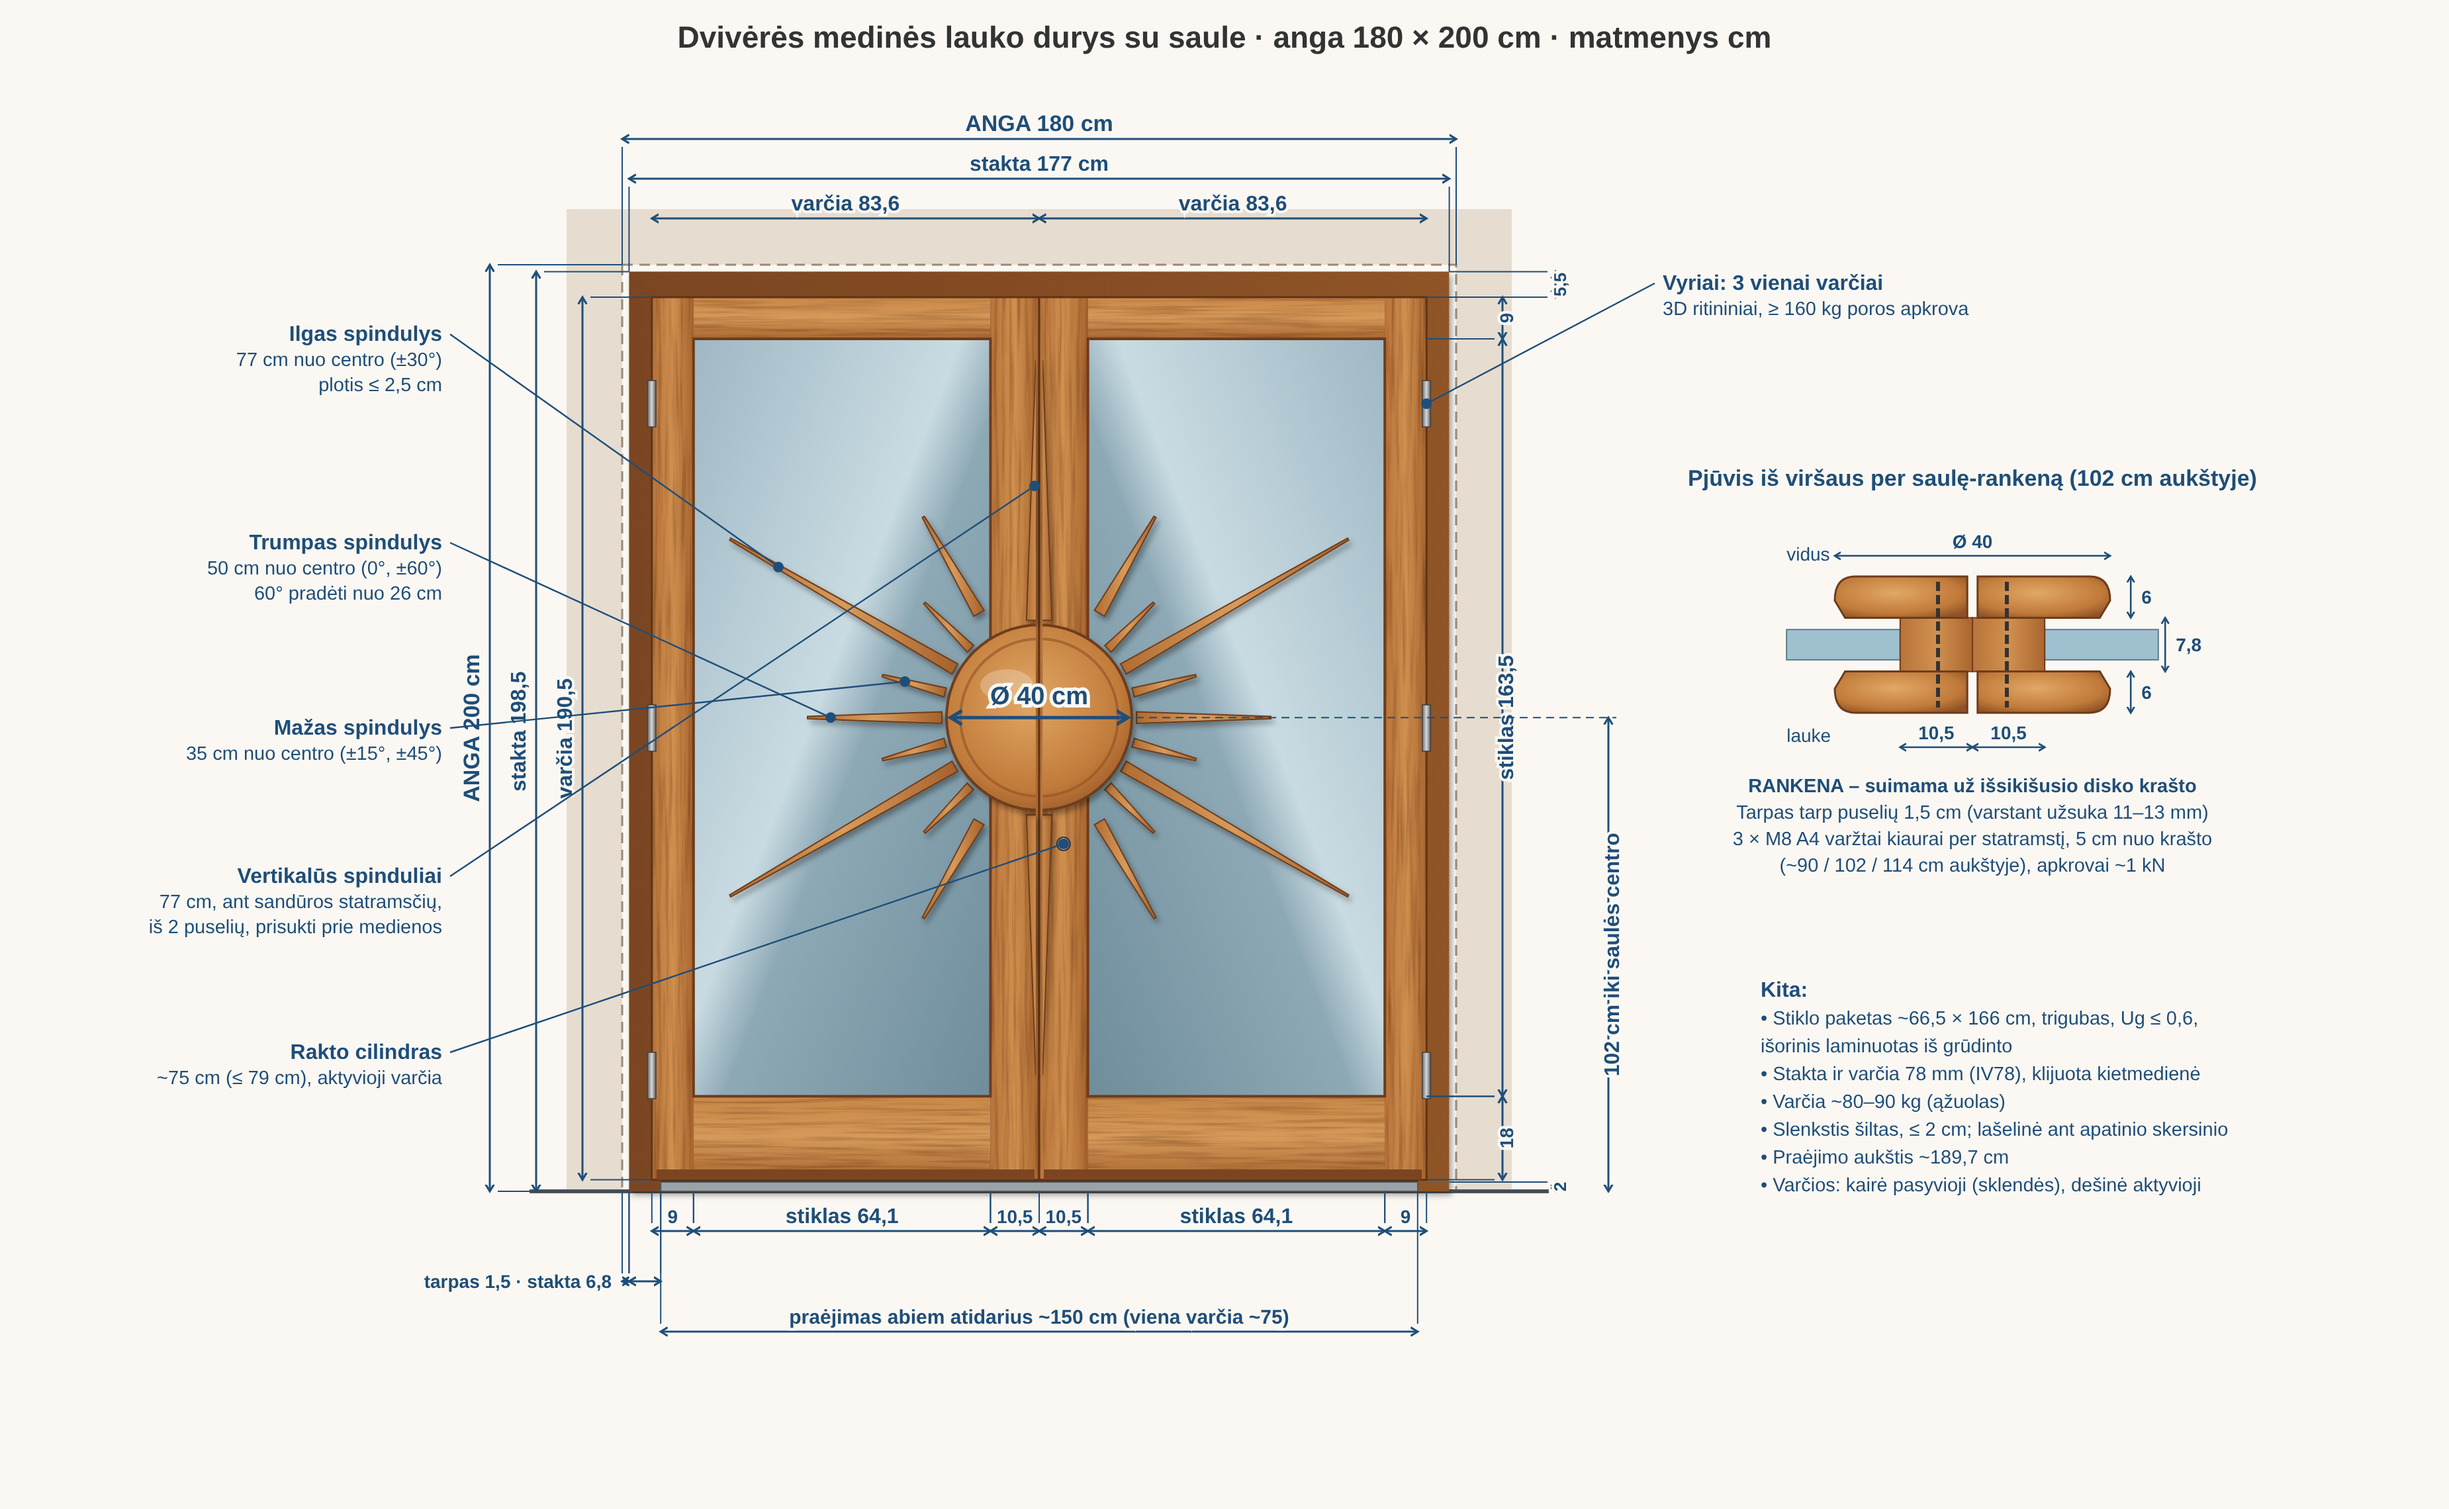
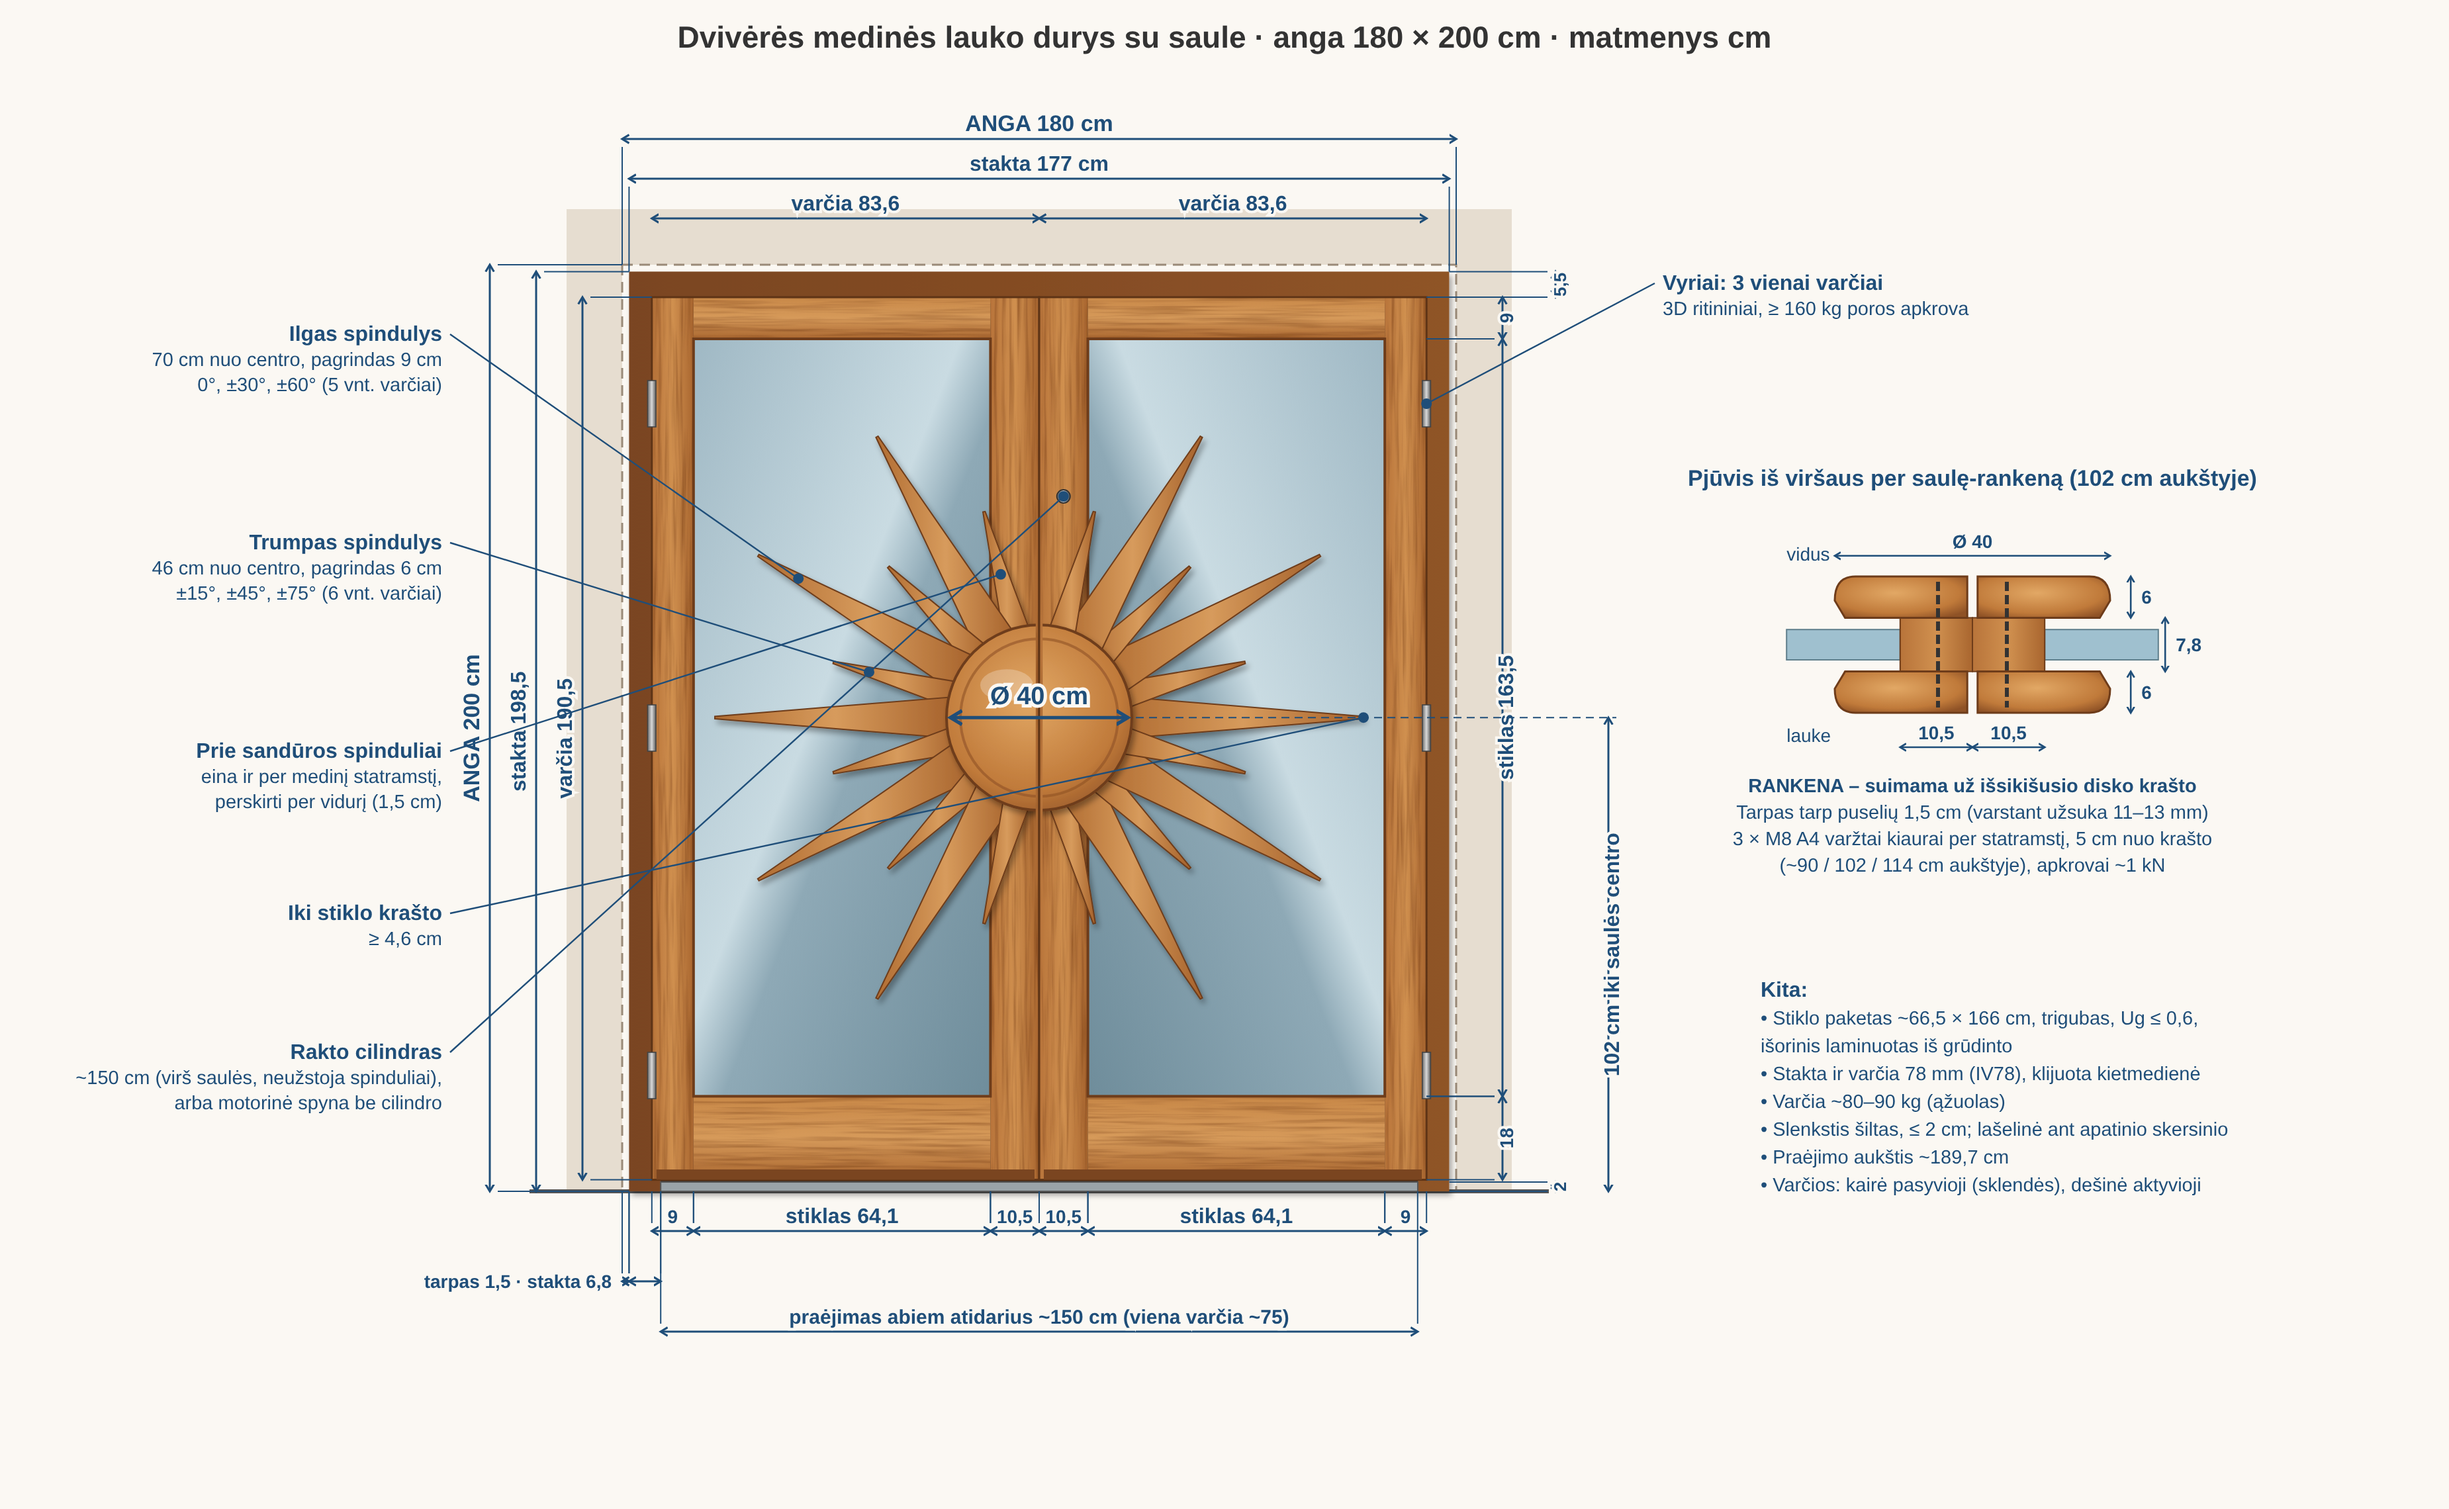
Spinduliai kaip pirmame piešinyje, cilindras virš saulės
Claude-Session: https://claude.ai/code/session_01NZt1Gnh6jbXepyZAwSUY5b

diff --git a/DURYS.md b/DURYS.md
@@ -79,8 +79,8 @@ Brėžinys: `durys-brezinys.png`. Ataskaita: `reports/Medinės dvivėrės lauko 
 | Saulės diskas | Ø 40 cm, centras 102 cm nuo grindų, išsikiša 6 cm iš abiejų pusių |
 | Tarpas tarp disko puselių | 1,5 cm (varstant užsuka 11–13 mm) |
 | Disko tvirtinimas | 3 × M8 A4 kiaurai per statramstį, 5 cm nuo krašto (~90/102/114 cm) |
-| Spinduliai | ilgi 77 cm (±30°, vertikalūs ant statramsčių), trumpi 50 cm (0°, ±60°; 60° nuo 26 cm), maži 35 cm (±15°, ±45°), plotis ≤ 2,5 cm |
-| Rakto cilindras | ~75 cm (≤ 79 cm) aktyviojoje varčioje |
+| Spinduliai | 22 vnt., kas 15° (be vertikalių), kaip pirmame piešinyje: ilgi 70 cm nuo centro, pagrindas 9 cm (0°, ±30°, ±60°); trumpi 46 cm, pagrindas 6 cm (±15°, ±45°, ±75°); prie sandūros eina ir per medinį statramstį, perskirti per vidurį; iki stiklo krašto ≥ 4,6 cm. Platūs spinduliai didina stiklo įtrūkimo nuo karščio riziką – išorinis stiklas grūdintas, spinduliai šviesūs, klijus patvirtina stiklo gamintojas |
+| Rakto cilindras | ~150 cm (virš saulės, kad neužstotų spinduliai) aktyviojoje varčioje, arba motorinė spyna be cilindro |
 | Vyriai | 3 vienai varčiai, 3D ritininiai, ≥ 160 kg poros apkrova |
 | Varčios svoris | ~80–90 kg (ąžuolas) |
 | Praėjimas | abi varčios ~150 cm, viena ~75 cm; aukštis ~189,7 cm |
